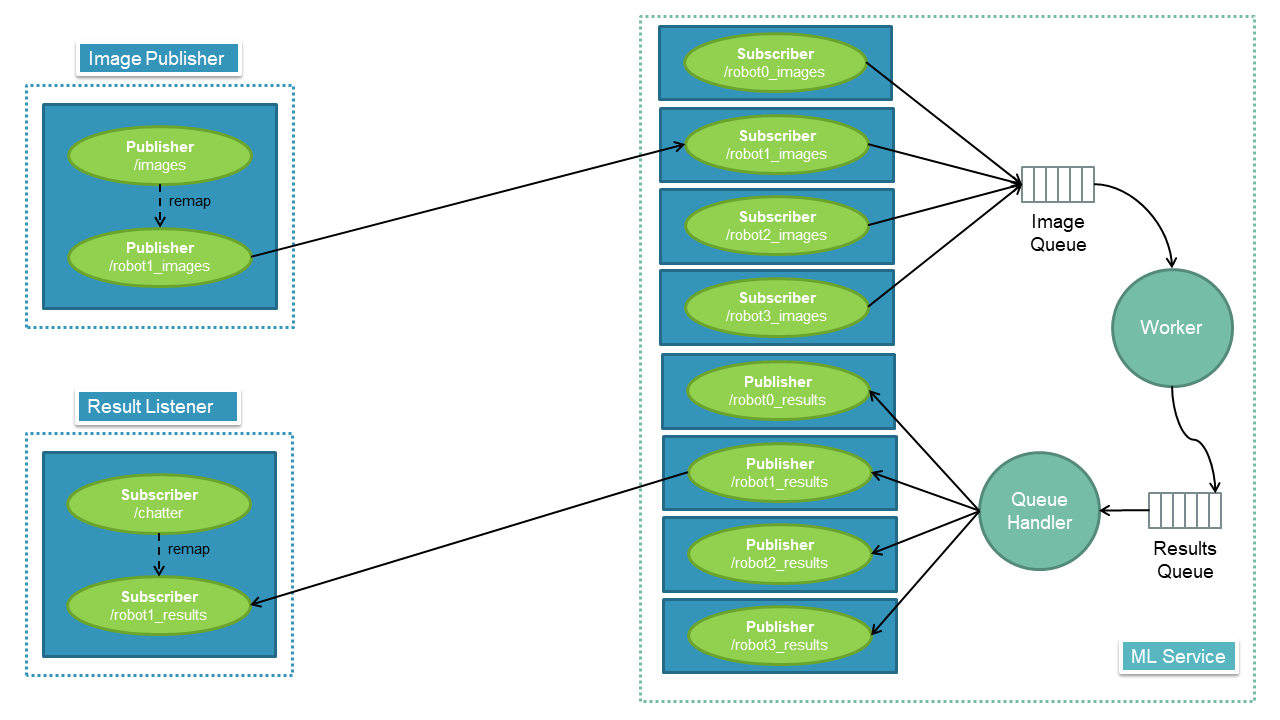
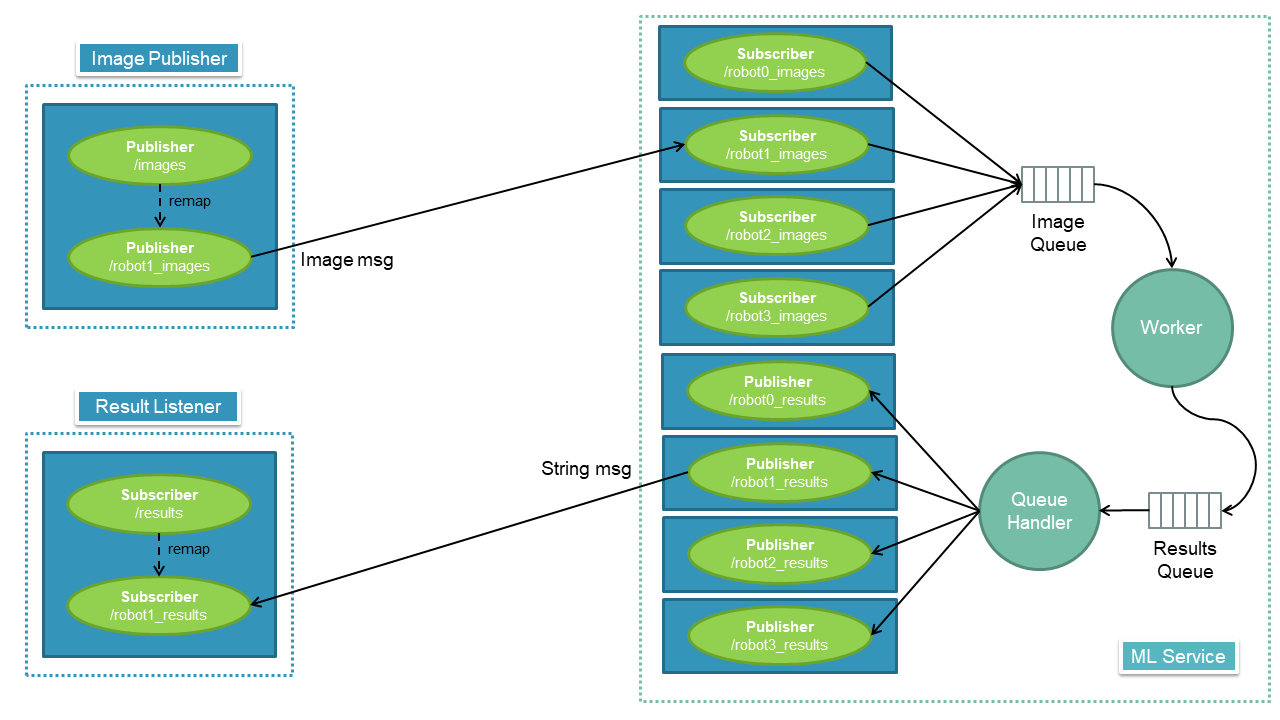
Images added Typo fix (there was one last "chatter" topic)

diff --git a/Documentation/Step-by-step.md b/Documentation/Step-by-step.md
@@ -57,7 +57,7 @@ The commands above assume that the NetApp-Workshop repository is in the home dir
 ## Basic example
 In this example, we will use three parts of `ros2_5g_era_basic_example` package (`ml_service`, `image_publisher`, `results_listener`). 
 Scheme ...
-![ALT: Image placeholder](Images/Scheme_Basic_example.png "Basic Example Scheme")
+![Basic Example Scheme](Images/Scheme_Basic_example.png "Basic Example Scheme")
 
 First, we start the `ml_service` with the `DummyDetector` worker thread inside. At the start, `ml_service` will generate names for input and output topics that will be used by `image_publisher` and `results_listener`.
 
@@ -90,7 +90,7 @@ This communication interface needs to be implemented by the robot in order to us
 
 In this example, we will use `ml_service` part of `ros2_5g_era_object_detection_standalone_py` package, `image_publisher`, `results_listener` from previous example and definition of `ros2_5g_era_service_interfaces` for service call.
 
-![ALT: Image placeholder](Images/image-placeholder.jpg "IMAGE_PLACEHOLDER_CAPTION")
+![Standalone (basics) scheme](Images/Scheme_Standalone_basics.png "Standalone (basics) Scheme")
 
 Let's start our *Object Detection ML NetApp* in a standalone variant. For the purpose of this workshop, this service is implemented with a simple Face Detector from OpenCV library. The output of this object detection service is the `bounding box [x,y,w,h]` around people's faces. For completness, this service also returns `object class` and `detection score`.
 
@@ -126,7 +126,7 @@ After that, we can start the `result_listener` and `image_publisher` from the `r
 
 ```bash
 # Termial 3
-ros2 run ros2_5g_era_basic_example result_listener --ros-args --remap chatter:=/tasks/{id}/results
+ros2 run ros2_5g_era_basic_example result_listener --ros-args --remap results:=/tasks/{id}/results
 # or
 ros2 topic echo /tasks/{id}/results
 
@@ -162,7 +162,7 @@ ros2 service call robot_logic/stop_service ros2_5g_era_robot_interfaces/srv/Stop
 
 ## Standalone ML service in Kubernetes
 
-![ALT: Image placeholder](Images/image-placeholder.jpg "IMAGE_PLACEHOLDER_CAPTION")
+![Standalone (Kubernetes) scheme](Images/Scheme_Standalone_Kubernetes.png "Standalone (Kubernetes) scheme")
 
 Modules: Robot / ML_service
 
@@ -250,7 +250,10 @@ ADVANTAGES: Distributed processing. Possibility of scaling using more workers.
 
 DISADVANTAGES: Slower processing, bigger latencies. A limited number of ML services suitable for distributed processing. 
 
-![ALT: Image placeholder](Images/image-placeholder.jpg "Distributed ML service scheme.")
+![Distributed (Kubernetes) scheme](Images/ML_Distributed_highlevel.png "Distributed ML service scheme (high level).")
+
+
+![Distributed (Kubernetes) scheme](Images/Scheme_Distributed_Kubernetes.png "Distributed ML service scheme.")
 
 ### Deploy and test
 All parts of distributed ML service and their components are defined in `5gera_ml_service_distributed.yaml`. There are two environment variables, which has to be set properly:
